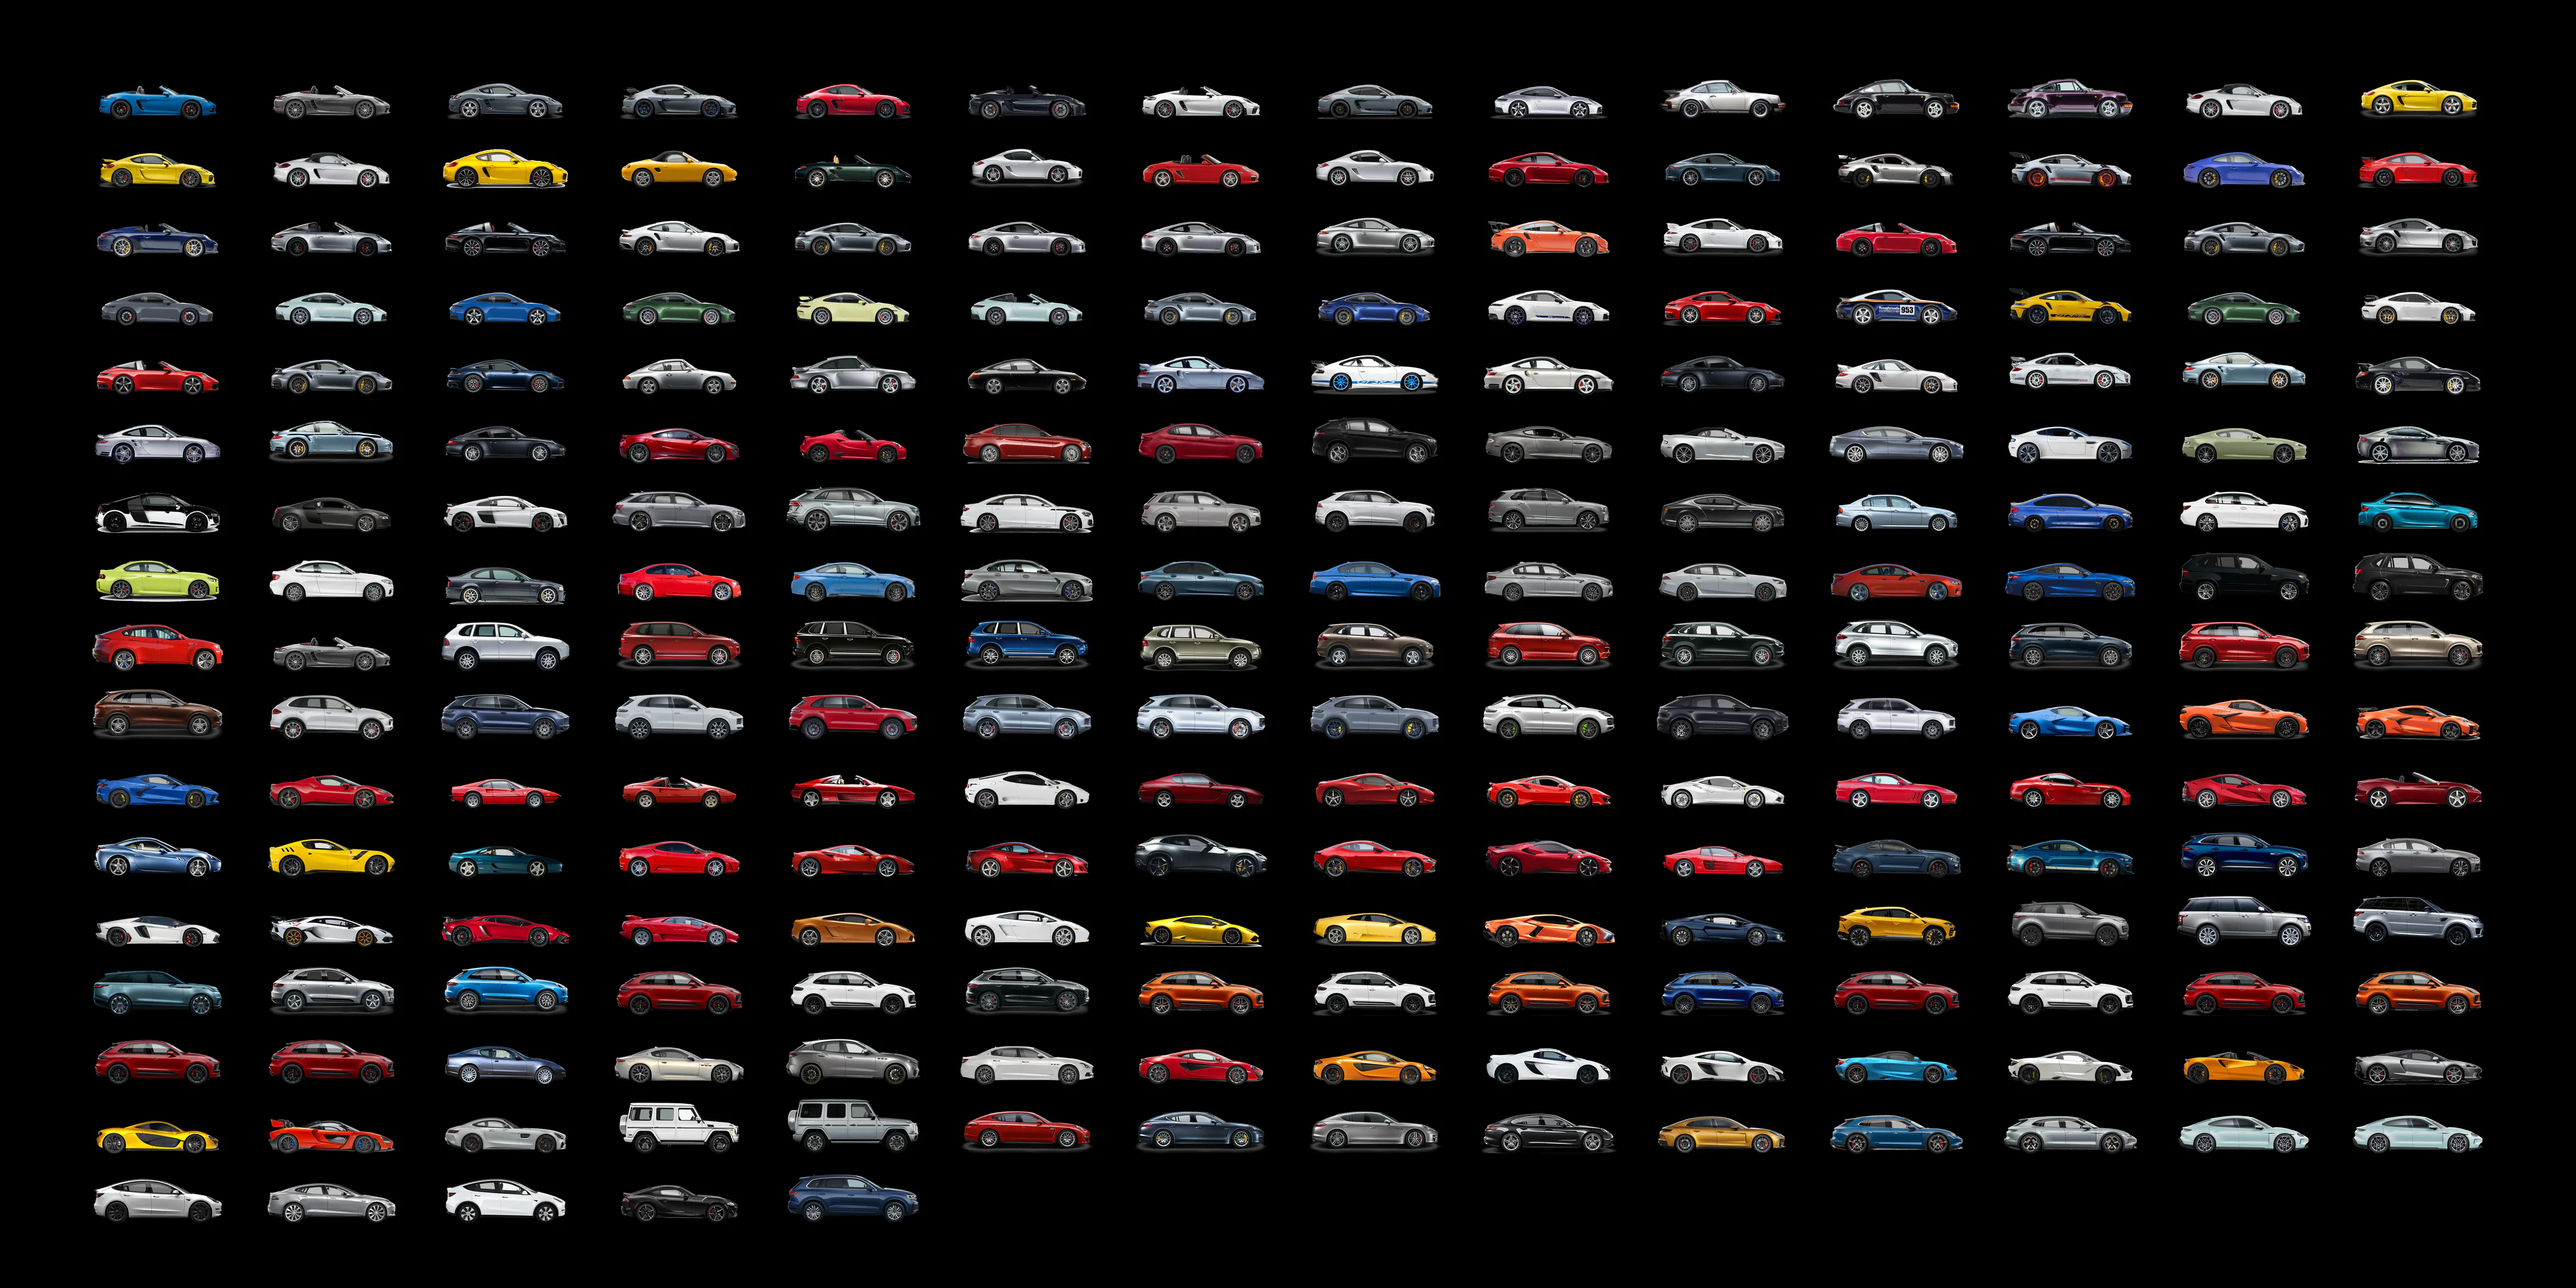
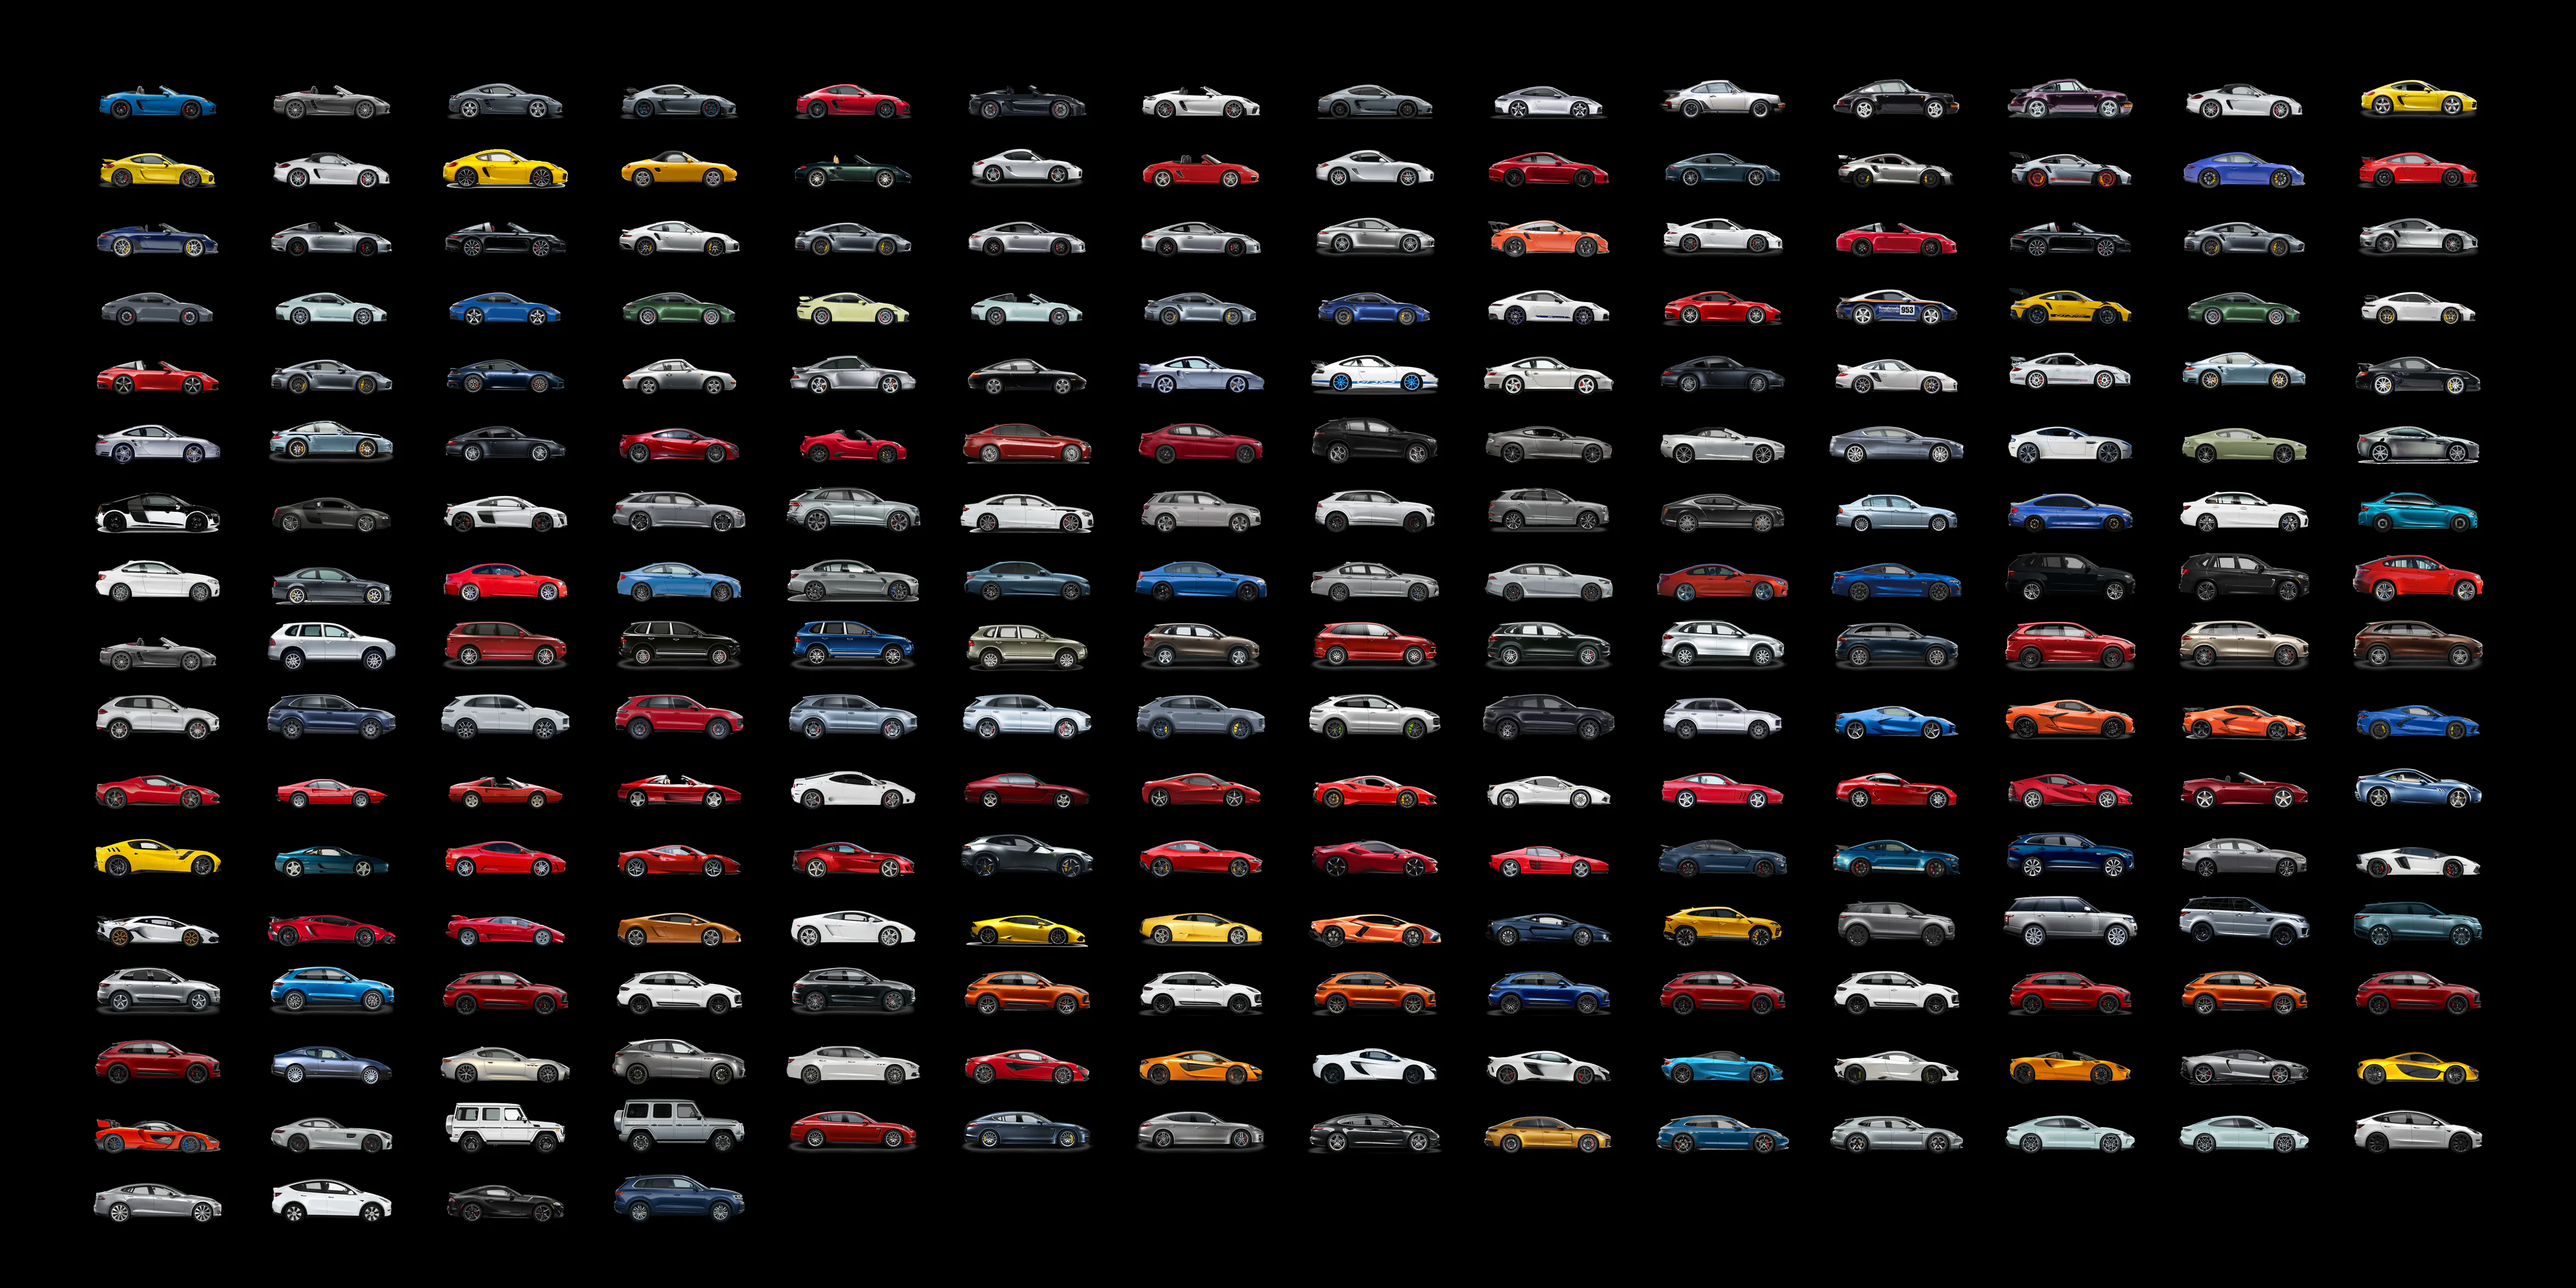
feat: calmer car grid (12 across, full rows, only three columns move), green M2 removed, Lows leads the portfolio

Changed region(s): [[0.0312, 0.434, 0.9688, 0.961]]

diff --git a/components/portfolio/PfCars.tsx b/components/portfolio/PfCars.tsx
@@ -5,14 +5,14 @@ import { media } from "@/lib/media";
 import sheet from "@/content/portfolio-cars.json";
 
 /**
- * The Rennen Plus car grid on /portfolio: every thumbnail on the site, laid
- * out 15 across. Put the pointer on a car (or tap it) and it grows to five
- * cells by five, right where it is, while every other car shuffles along to
- * make room and stays in the grid.
+ * The Rennen Plus car grid on /portfolio: every thumbnail on the site, 12
+ * across in 19 full rows. Put the pointer on a car (or tap it) and it grows to
+ * three columns wide, right where it is. Only the cars in those three columns
+ * move, and only straight up or down to clear it, so the rest of the grid
+ * stays still.
  *
- * The frame is 15 by 17 cells: room for every car plus the space one big car
- * takes. At rest the last row is spare, so everything sits half a row lower to
- * stay centred.
+ * The frame has a few spare rows above and below the grid for those columns
+ * to slide into, so nothing leaves the page.
  *
  * Small cars are drawn from one sprite file (so the page makes one request,
  * not hundreds); the open car loads its own larger file on top. The sprite,
@@ -20,27 +20,26 @@ import sheet from "@/content/portfolio-cars.json";
  * Portfolio/Rennen Plus/Source/Contact Sheet Rig/build.py.
  */
 
-const COLS = 15;
-const ROWS = 17;
-const SPAN = 5;
+const COLS = 12;
+const ROWS = 19;
+const UP = 3; // rows the cars above an open car move up
+const DOWN = 2; // rows the cars below it move down
+const TRACKS = ROWS + UP + DOWN; // row heights the frame is divided into
+const WIDE = 3; // columns an open car takes
 const CARS = sheet.cars;
 const SPRITE = "/media/images/portfolio/rennen-plus/cars-sprite.webp";
 
-interface Open { i: number; c: number; r: number }
+/** The open car, its own cell, and the first of the columns it takes. */
+interface Open { i: number; c: number; r: number; c0: number }
 
 /** Where every car sits: [column, row], given which one (if any) is open. */
 function layout(open: Open | null): [number, number][] {
-  const at: [number, number][] = new Array(CARS.length);
-  let k = 0;
-  for (let r = 0; r < ROWS; r++) {
-    for (let c = 0; c < COLS; c++) {
-      if (open && c >= open.c && c < open.c + SPAN && r >= open.r && r < open.r + SPAN) continue;
-      if (open && k === open.i) k++;
-      if (k < CARS.length) at[k++] = [c, r];
-    }
-  }
-  if (open) at[open.i] = [open.c, open.r];
-  return at;
+  return CARS.map((_, i) => {
+    const c = i % COLS;
+    const r = Math.floor(i / COLS);
+    if (!open || i === open.i || c < open.c0 || c >= open.c0 + WIDE) return [c, r];
+    return [c, r <= open.r ? r - UP : r + DOWN];
+  });
 }
 
 const clamp = (v: number, lo: number, hi: number) => Math.min(hi, Math.max(lo, v));
@@ -49,23 +48,21 @@ export default function PfCars() {
   const [open, setOpen] = useState<Open | null>(null);
   const box = useRef<HTMLDivElement>(null);
   const at = layout(open);
-  const drop = open ? 0 : 0.5; // the half-row that centres the grid at rest
 
   const point = (e: React.PointerEvent<HTMLDivElement>) => {
     const b = box.current?.getBoundingClientRect();
     if (!b) return;
-    const x = ((e.clientX - b.left) / b.width) * COLS;
-    const y = ((e.clientY - b.top) / b.height) * ROWS;
-    const c = Math.floor(x);
-    if (open && c >= open.c && c < open.c + SPAN && y >= open.r && y < open.r + SPAN) return;
-    const r = Math.floor(y - drop);
+    const c = Math.floor(((e.clientX - b.left) / b.width) * COLS);
+    const r = Math.floor(((e.clientY - b.top) / b.height) * TRACKS) - UP;
+    // still on the open car (its three columns, two rows either side): leave it
+    if (open && c >= open.c0 && c < open.c0 + WIDE && Math.abs(r - open.r) <= 2) return;
     const i = at.findIndex((p) => p[0] === c && p[1] === r);
     if (i < 0) {
       if (open) setOpen(null);
       return;
     }
-    // open it around the pointer, so the pointer is still on it afterwards
-    setOpen({ i, c: clamp(c - 2, 0, COLS - SPAN), r: clamp(Math.floor(y) - 2, 0, ROWS - SPAN) });
+    const home = { c: i % COLS, r: Math.floor(i / COLS) };
+    setOpen({ i, ...home, c0: clamp(home.c - 1, 0, COLS - WIDE) });
   };
 
   const sprite = `url(${media(SPRITE)})`;
@@ -79,7 +76,11 @@ export default function PfCars() {
             key={car.slug}
             className="pf-car"
             data-big={big ? "1" : "0"}
-            style={{ transform: `translate(${at[i][0] * 100}%, ${(at[i][1] + drop) * 100}%) scale(${big ? SPAN : 1})` }}
+            style={{
+              transform: big
+                ? `translate(${open.c0 * 100}%, ${(open.r - 1 + UP) * 100}%) scale(${WIDE})`
+                : `translate(${at[i][0] * 100}%, ${(at[i][1] + UP) * 100}%)`,
+            }}
           >
             <div
               className="pf-car-art"
@@ -100,7 +101,7 @@ export default function PfCars() {
         );
       })}
       {open ? (
-        <p className="pf-car-name pf-mono" style={{ left: `${((open.c + SPAN / 2) / COLS) * 100}%`, top: `${((open.r + SPAN) / ROWS) * 100}%` }}>
+        <p className="pf-car-name pf-mono" style={{ left: `${((open.c0 + WIDE / 2) / COLS) * 100}%`, top: `${((open.r + 3 + UP) / TRACKS) * 100}%` }}>
           {CARS[open.i].name}
         </p>
       ) : null}

diff --git a/content/portfolio.ts b/content/portfolio.ts
@@ -125,19 +125,6 @@ const RAW: Slide[] = [
   { kind: "index" },
 
   /* ── Lola Audio ────────────────────────────────────────────── */
-  { kind: "title", id: "lola", name: "Lola Audio", category: "Logo and Website", year: "2026" },
-  {
-    kind: "text",
-    name: "Lola Audio",
-    category: "Logo and Website",
-    body:
-      "Lola Stoodley is a composer and sound designer, so her site plays like her work. Faders mix the music as you move them, scrolling back rewinds the track, and her name draws itself in pen. Each showreel opens in a full-screen player you can scrub frame by frame.",
-    meta: [ME, { label: "Year", value: "2026" }, { label: "Live", value: "lola-audio.com", href: "https://www.lola-audio.com" }],
-  },
-  one("lola-audio/site-scroll-3d.mp4"),
-  one("lola-audio/watch.mp4"),
-
-  /* ── Lows Design and Build ─────────────────────────────────── */
   { kind: "title", id: "lows", name: "Lows Design + Build", category: "Brand and Website", year: "2026" },
   {
     kind: "text",
@@ -159,6 +146,19 @@ const RAW: Slide[] = [
   },
 
   /* ── Rennen Plus ───────────────────────────────────────────── */
+  { kind: "title", id: "lola", name: "Lola Audio", category: "Logo and Website", year: "2026" },
+  {
+    kind: "text",
+    name: "Lola Audio",
+    category: "Logo and Website",
+    body:
+      "Lola Stoodley is a composer and sound designer, so her site plays like her work. Faders mix the music as you move them, scrolling back rewinds the track, and her name draws itself in pen. Each showreel opens in a full-screen player you can scrub frame by frame.",
+    meta: [ME, { label: "Year", value: "2026" }, { label: "Live", value: "lola-audio.com", href: "https://www.lola-audio.com" }],
+  },
+  one("lola-audio/site-scroll-3d.mp4"),
+  one("lola-audio/watch.mp4"),
+
+  /* ── Lows Design and Build ─────────────────────────────────── */
   { kind: "title", id: "rennen-plus", name: "Rennen Plus", category: "Website", year: "2026" },
   {
     kind: "text",

diff --git a/app/portfolio/portfolio.css b/app/portfolio/portfolio.css
@@ -237,21 +237,22 @@ body:has(.pf) { background: #1a1a1a; }
 }
 .pf-item :is(img, video)[data-in="1"] { opacity: 1; }
 
-/* the car grid: 15 by 17 cells; the car under the pointer grows to 5 by 5 in
-   place and the rest shuffle along (positions are set inline by PfCars) */
-.pf-cars { position: absolute; inset: 5% 4%; cursor: crosshair; touch-action: pan-y; }
+/* the car grid: 12 across, 19 rows, in a frame 24 rows tall; the car under
+   the pointer grows three columns wide in place and only the cars in those
+   columns slide up or down (positions are set inline by PfCars) */
+.pf-cars { position: absolute; inset: 2% 12% 4%; cursor: crosshair; touch-action: pan-y; }
 .pf-car {
   position: absolute; left: 0; top: 0;
-  width: calc(100% / 15); height: calc(100% / 17);
+  width: calc(100% / 12); height: calc(100% / 24);
   display: grid; place-items: center;
   transform-origin: 0 0;
-  transition: transform 0.5s cubic-bezier(0.2, 0.8, 0.2, 1);
+  transition: transform 0.6s cubic-bezier(0.3, 0.7, 0.2, 1);
   pointer-events: none;
 }
 .pf-car[data-big="1"] { z-index: 1; }
 .pf-car-art { position: relative; width: 90%; aspect-ratio: 2.5; background-repeat: no-repeat; }
 .pf-car-art img { position: absolute; inset: 0; width: 100%; height: 100%; opacity: 1; }
-.pf-car-name { position: absolute; margin: 0; transform: translate(-50%, -190%); white-space: nowrap; color: var(--soft); pointer-events: none; animation: pf-car-in 0.3s 0.2s ease both; }
+.pf-car-name { position: absolute; margin: 0; transform: translate(-50%, -120%); white-space: nowrap; color: var(--soft); pointer-events: none; animation: pf-car-in 0.3s 0.2s ease both; }
 @keyframes pf-car-in { from { opacity: 0; } }
 @media (prefers-reduced-motion: reduce) { .pf-car { transition: none; } .pf-car-name { animation: none; } }
 
